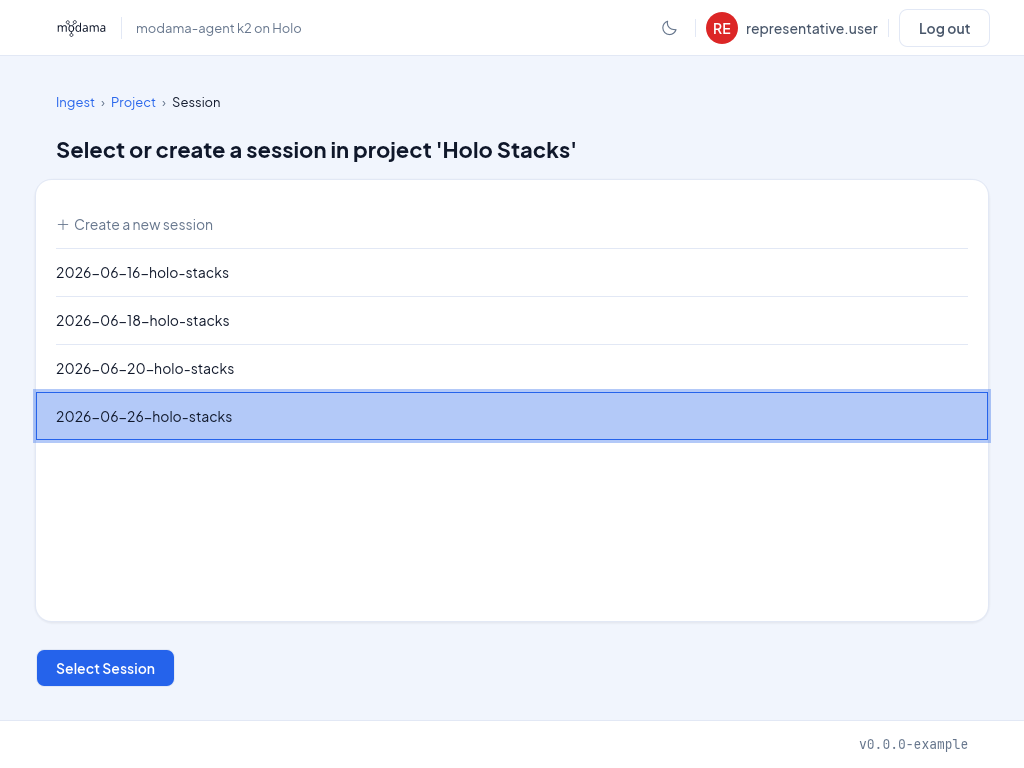
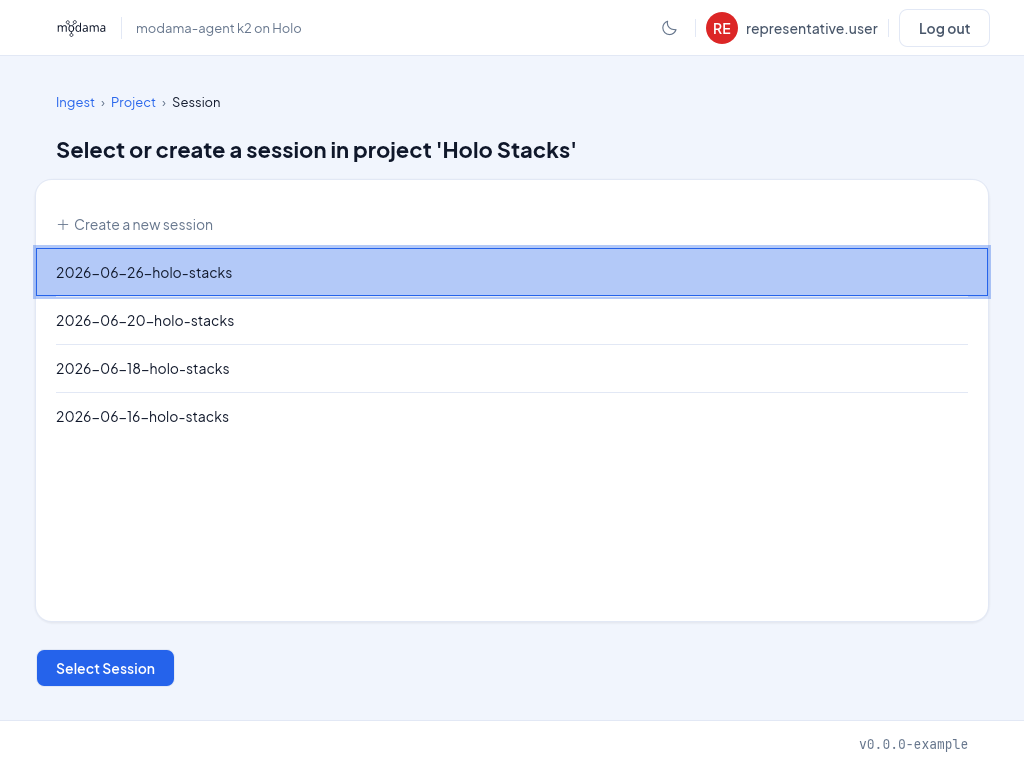
List sessions newest first, by the session folder's modification time
The agent passes the management API's mtime on as session_summaries, next to the names, so
older GUIs and scripts keep working. The GUI sorts by it; without it, the order stays as
the agent sends it.

Changed region(s): [[0.0312, 0.4688, 0.9688, 0.5938], [0.0312, 0.3125, 0.9688, 0.4375]]

diff --git a/modama-rs/modama-agent-gui/src/service.rs b/modama-rs/modama-agent-gui/src/service.rs
@@ -341,7 +341,14 @@ impl AgentService for HttpAgentService {
             self.runtime
                 .block_on(self.client().list_sessions_in_project(project)),
         )?;
-        Ok(response.sessions)
+        Ok(newest_first(
+            response.sessions,
+            response
+                .session_summaries
+                .into_iter()
+                .flatten()
+                .map(|summary| (summary.name, summary.modified_at)),
+        ))
     }
 
     fn create_session(
@@ -525,7 +532,7 @@ impl AgentService for StubAgentService {
         _project: &str,
     ) -> Result<Vec<String>, ServiceError> {
         self.delay();
-        Ok(["16", "18", "20", "26"]
+        Ok(["26", "20", "18", "16"]
             .into_iter()
             .map(|day| format!("2026-06-{day}-holo-stacks"))
             .collect())
@@ -593,9 +600,34 @@ impl AgentService for StubAgentService {
     }
 }
 
+/// The session names, the last modified first. Sessions without a modification time (all of
+/// them, from an agent that doesn't send any) keep their order, after the others.
+fn newest_first(
+    names: Vec<String>,
+    modified_at: impl IntoIterator<Item = (String, i64)>,
+) -> Vec<String> {
+    let modified_at: std::collections::HashMap<String, i64> = modified_at.into_iter().collect();
+    let mut names = names;
+    names.sort_by_key(|name| std::cmp::Reverse(modified_at.get(name).copied()));
+    names
+}
+
 #[cfg(test)]
 mod tests {
     use super::*;
+
+    #[test]
+    fn sessions_are_listed_last_modified_first() {
+        let names = ["a", "b", "c", "d"].map(String::from).to_vec();
+        let modified_at = [("a", 10), ("b", 30), ("c", 20)].map(|(n, t)| (n.to_owned(), t));
+        assert_eq!(newest_first(names, modified_at), ["b", "c", "a", "d"]);
+    }
+
+    #[test]
+    fn sessions_keep_their_order_without_modification_times() {
+        let names = ["b", "a", "c"].map(String::from).to_vec();
+        assert_eq!(newest_first(names, []), ["b", "a", "c"]);
+    }
 
     fn credentials(username: &str) -> Credentials {
         Credentials {

diff --git a/modama-rs/modama-agent-gui/tests/selection_visual.rs b/modama-rs/modama-agent-gui/tests/selection_visual.rs
@@ -15,11 +15,12 @@ use modama_agent_gui::{
 };
 use time::{Date, Month};
 
+/// Newest first, as the agent service lists them
 const SESSIONS: [&str; 4] = [
-    "2026-06-16-holo-stacks",
-    "2026-06-18-holo-stacks",
-    "2026-06-20-holo-stacks",
     "2026-06-26-holo-stacks",
+    "2026-06-20-holo-stacks",
+    "2026-06-18-holo-stacks",
+    "2026-06-16-holo-stacks",
 ];
 
 fn session_page_at_fixture_date() -> PageSelectCreateSession {
@@ -1074,11 +1075,12 @@ fn session_selection_snapshots() {
 
     let mut scrolled_page = PageSelectCreateSession::new("Project Alpha".to_string());
     scrolled_page.available_sessions = (1..=24)
+        .rev()
         .map(|day| format!("2026-06-{day:02}-holo-stacks"))
         .collect();
     let mut scrolled = selection_harness(Page::SelectCreateSession(scrolled_page));
     scrolled.run_steps(3);
-    let first_session = scrolled.get_by_role_and_label(Role::Button, "2026-06-01-holo-stacks");
+    let first_session = scrolled.get_by_role_and_label(Role::Button, "2026-06-24-holo-stacks");
     for _ in 0..8 {
         first_session.scroll_down();
     }
@@ -1408,6 +1410,7 @@ fn session_list_follows_available_geometry_and_shared_guide() {
     for height in [600.0, 768.0, 900.0] {
         let mut page = PageSelectCreateSession::new("Project Alpha".to_string());
         page.available_sessions = (1..=24)
+            .rev()
             .map(|day| format!("2026-06-{day:02}-holo-stacks"))
             .collect();
         let mut harness = selection_harness_at_size(
@@ -1424,7 +1427,7 @@ fn session_list_follows_available_geometry_and_shared_guide() {
             .rect();
         let create_row = harness.get_by_label("Create a new session").rect();
         harness
-            .get_by_role_and_label(Role::Button, "2026-06-01-holo-stacks")
+            .get_by_role_and_label(Role::Button, "2026-06-24-holo-stacks")
             .rect();
         let action = harness.get_by_label("Select Session").rect();
         let card_border = styles::components::standard_border::width::EGUI_POINTS;

diff --git a/modama-rs/modama-agent/src/lib/local_http_service.rs b/modama-rs/modama-agent/src/lib/local_http_service.rs
@@ -2717,6 +2717,47 @@ mod tests {
     }
 
     #[tokio::test]
+    async fn local_api_lists_sessions_with_their_modification_time() {
+        let test_setup = TestSetup::start().await;
+        let mut server = mgmt_api_server(&test_setup).await;
+        let mock = server
+            .mock("GET", "/mgmt-api/projects/p")
+            .match_header("cookie", MGMT_COOKIE)
+            .with_header("content-type", "application/json")
+            .with_body(
+                r#"{"name": "p", "owner": "o", "members": [], "ctime": 1.0, "mtime": 2.0,
+                    "gid": 1, "relpath": "adhoc/p", "usage_bytes": null,
+                    "sessions": [
+                        {"name": "old", "immutable": false, "ctime": 1.0, "mtime": 1782000000.5},
+                        {"name": "new", "immutable": false, "ctime": 1.0, "mtime": 1782432123.75}
+                    ]}"#,
+            )
+            .create_async()
+            .await;
+        let req = Request::builder()
+            .uri("/api/projects/p/sessions/")
+            .method("GET")
+            .header("X-API-Version", "1.0.0")
+            .header(header::COOKIE, signed_in_cookie(MGMT_COOKIE))
+            .body(Body::empty())
+            .unwrap();
+
+        let resp = test_setup.app.oneshot(req).await.unwrap();
+        assert_eq!(resp.status(), StatusCode::OK);
+        let got: Value =
+            serde_json::from_slice(&resp.into_body().collect().await.unwrap().to_bytes()).unwrap();
+        assert_eq!(got["sessions"], serde_json::json!(["old", "new"]));
+        assert_eq!(
+            got["session_summaries"],
+            serde_json::json!([
+                {"name": "old", "modified_at": 1_782_000_000_i64},
+                {"name": "new", "modified_at": 1_782_432_123_i64}
+            ])
+        );
+        mock.assert_async().await;
+    }
+
+    #[tokio::test]
     async fn a_renewed_sign_in_is_passed_on_to_the_client() {
         let test_setup = TestSetup::start().await;
         let mut server = mgmt_api_server(&test_setup).await;

diff --git a/modama-rs/modama-agent/src/lib/http_api.rs b/modama-rs/modama-agent/src/lib/http_api.rs
@@ -21,6 +21,7 @@ use modama_common::local_api_messages::{
     APIAgentIdentity, APICreateSessionRequest, APICreateSessionResponse, APICreateShareResponse,
     APICurrentForegroundShare, APIHealthCheckResponse, APIListProjectsResponse,
     APIListSessionsResponse, APILoginRequest, APILoginResponse, APIProjectSummary,
+    APISessionSummary,
 };
 
 #[utoipa::path(
@@ -223,8 +224,16 @@ async fn api_list_sessions_in_project(
         project: project_name,
         sessions: details
             .sessions
+            .iter()
+            .map(|session| session.name.clone())
+            .collect(),
+        session_summaries: details
+            .sessions
             .into_iter()
-            .map(|session| session.name)
+            .map(|session| APISessionSummary {
+                name: session.name,
+                modified_at: session.mtime as i64,
+            })
             .collect(),
     });
     Ok(sign_in.respond(response))

diff --git a/modama-rs/modama-common/src/local_api_messages.rs b/modama-rs/modama-common/src/local_api_messages.rs
@@ -98,6 +98,17 @@ pub struct APIListProjectsResponse {
 pub struct APIListSessionsResponse {
     pub project: String,
     pub sessions: Vec<String>,
+    /// The same sessions with their last modification. Missing in answers of older agents.
+    #[serde(default)]
+    pub session_summaries: Vec<APISessionSummary>,
+}
+
+/// A session in a project
+#[derive(Serialize, Deserialize, Clone, ToSchema)]
+pub struct APISessionSummary {
+    pub name: String,
+    /// Last modification of the session folder as an integer Unix timestamp.
+    pub modified_at: i64,
 }
 
 /// Create a new session in the given project

diff --git a/modama-rs/modama-agent-gui/src/guide_screenshots.rs b/modama-rs/modama-agent-gui/src/guide_screenshots.rs
@@ -31,11 +31,12 @@ pub const VIEWPORT: egui::Vec2 = egui::vec2(
 const PROJECT: &str = "Holo Stacks";
 const SESSION: &str = "2026-06-26-holo-stacks";
 const USERNAME: &str = "representative.user";
+/// Newest first, as the agent service lists them
 const SESSIONS: [&str; 4] = [
-    "2026-06-16-holo-stacks",
-    "2026-06-18-holo-stacks",
-    "2026-06-20-holo-stacks",
     SESSION,
+    "2026-06-20-holo-stacks",
+    "2026-06-18-holo-stacks",
+    "2026-06-16-holo-stacks",
 ];
 
 #[derive(Clone, Copy, Debug, PartialEq, Eq)]

diff --git a/modama-rs/test-env/tests/test_agent_local_api.py b/modama-rs/test-env/tests/test_agent_local_api.py
@@ -124,6 +124,9 @@ def test_agent_api_list_sessions(agent_api: str, agent: requests.Session):
     sessions = resp_data["sessions"]
     for s in ["session1", "session2", "session3", "session4"]:
         assert s in sessions
+    summaries = resp_data["session_summaries"]
+    assert [summary["name"] for summary in summaries] == sessions
+    assert all(isinstance(summary["modified_at"], int) for summary in summaries)
 
 
 def test_agent_api_list_projects(agent_api: str, agent: requests.Session):
